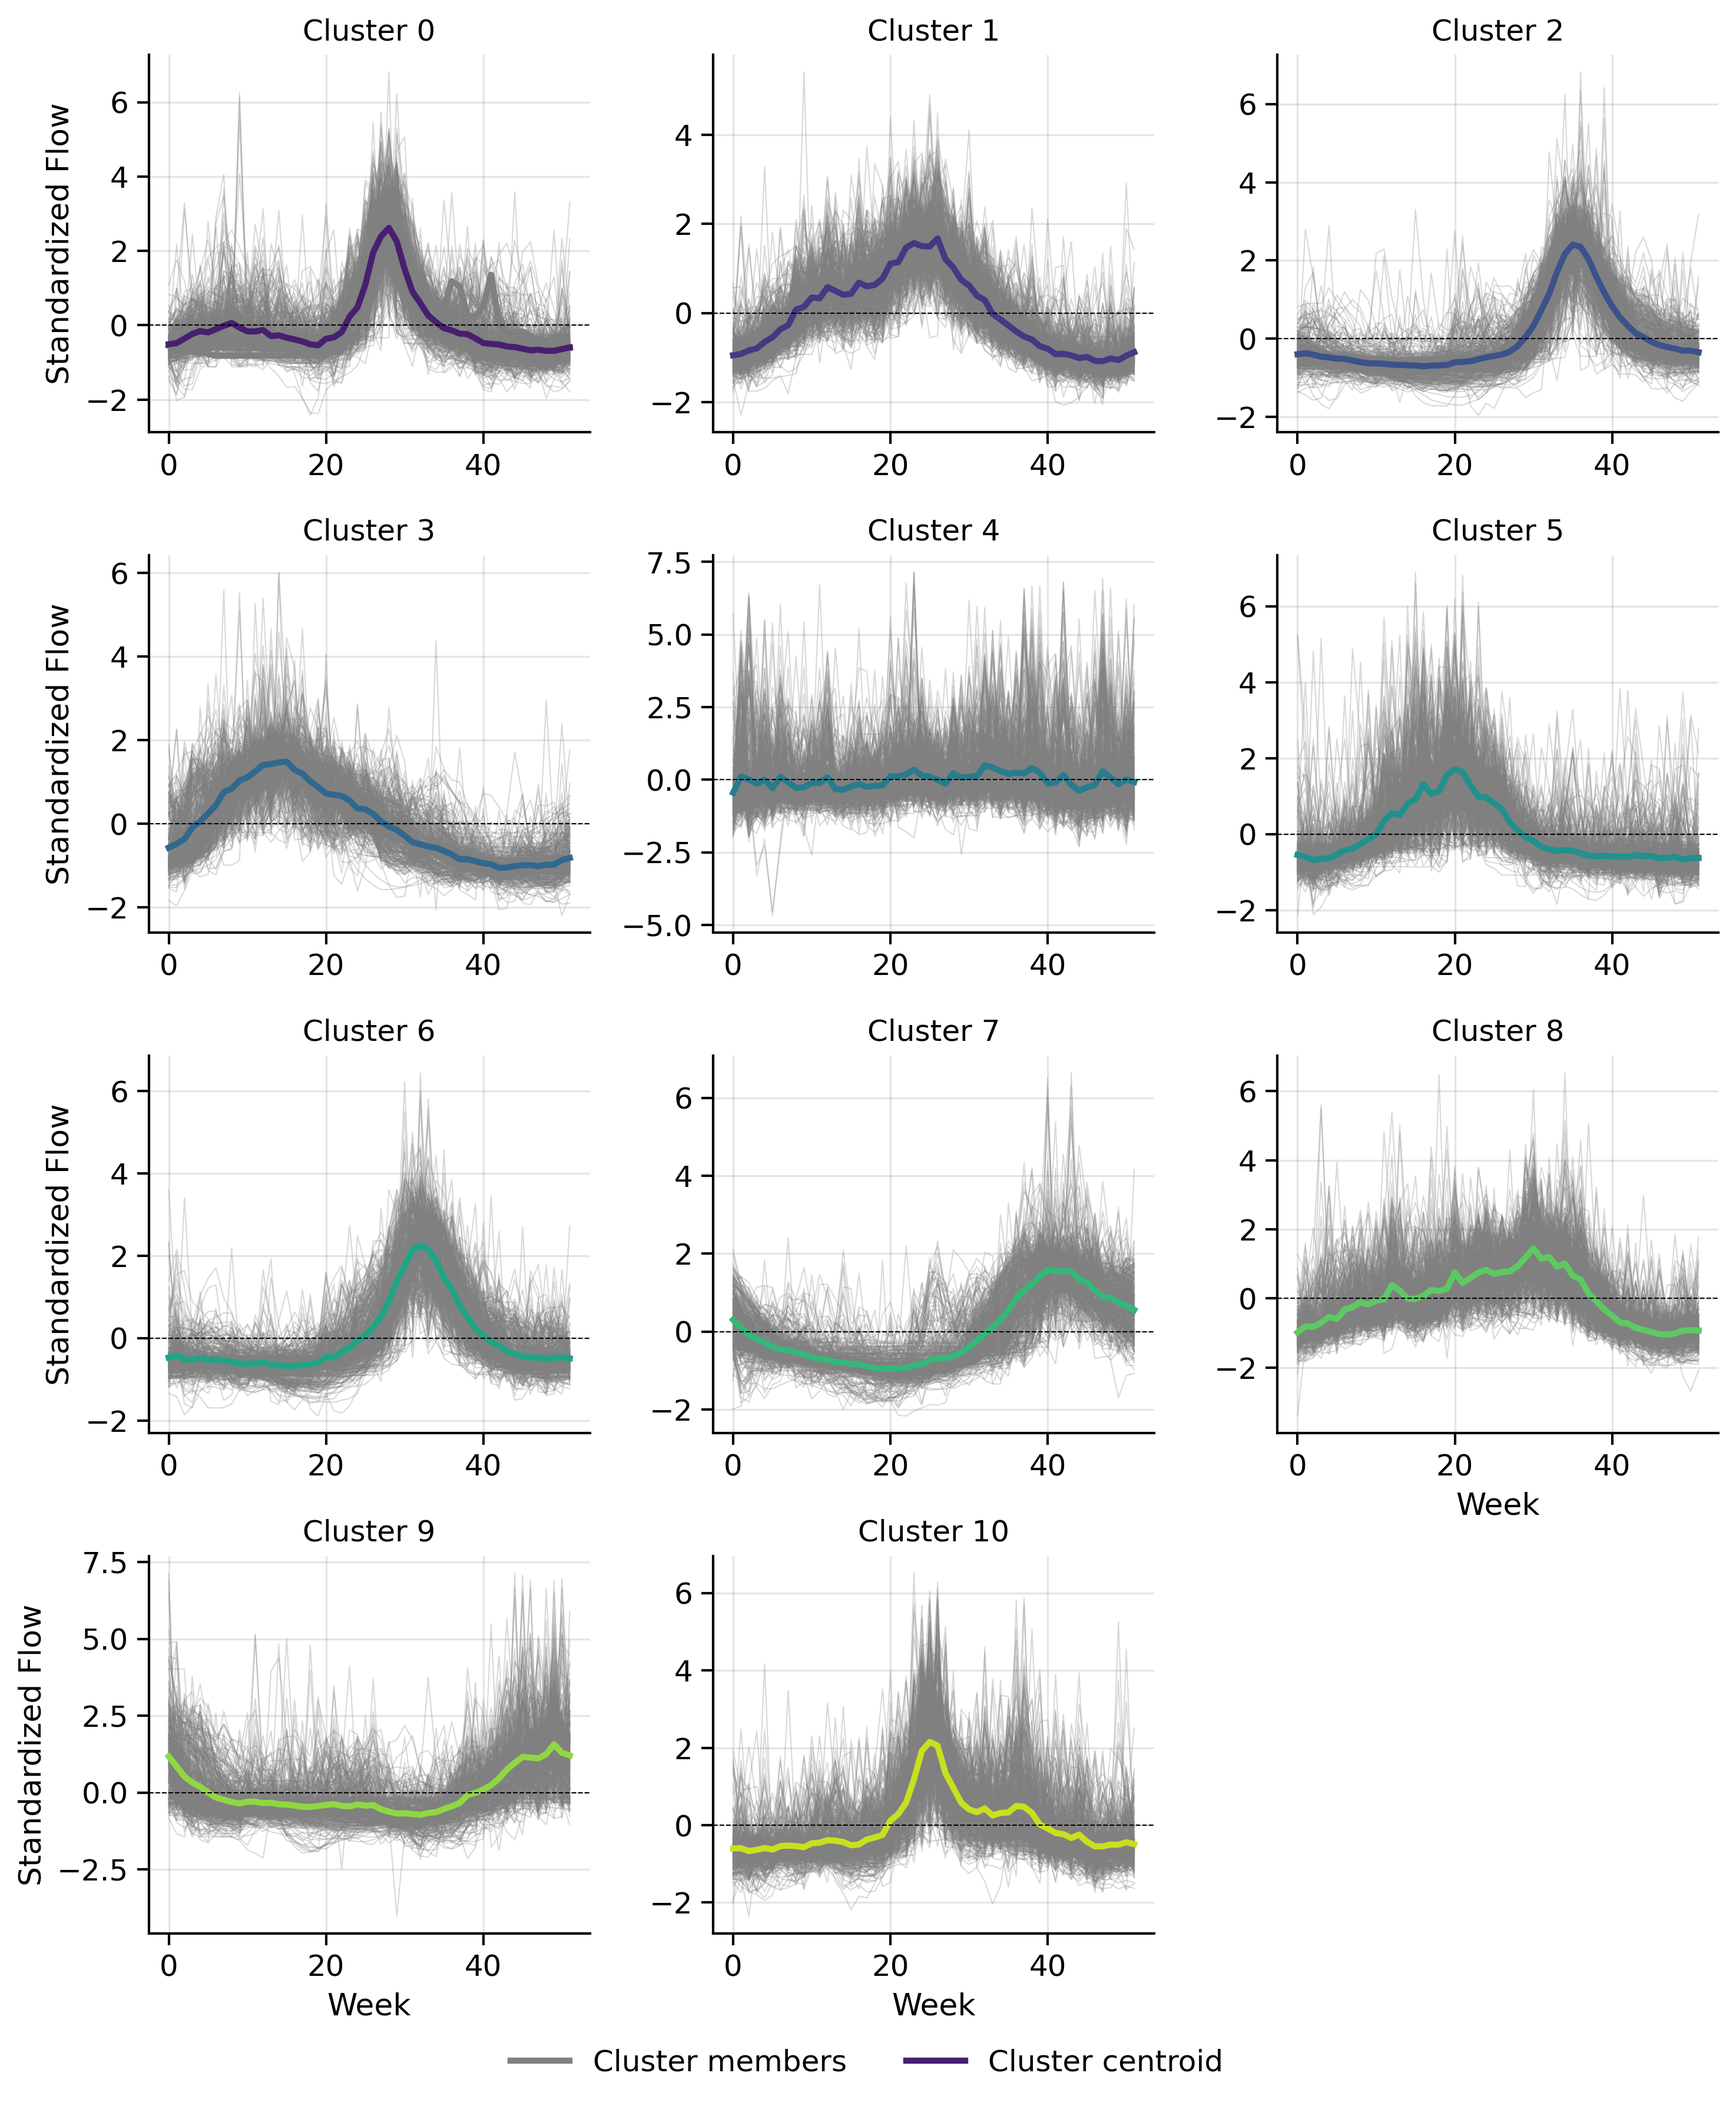
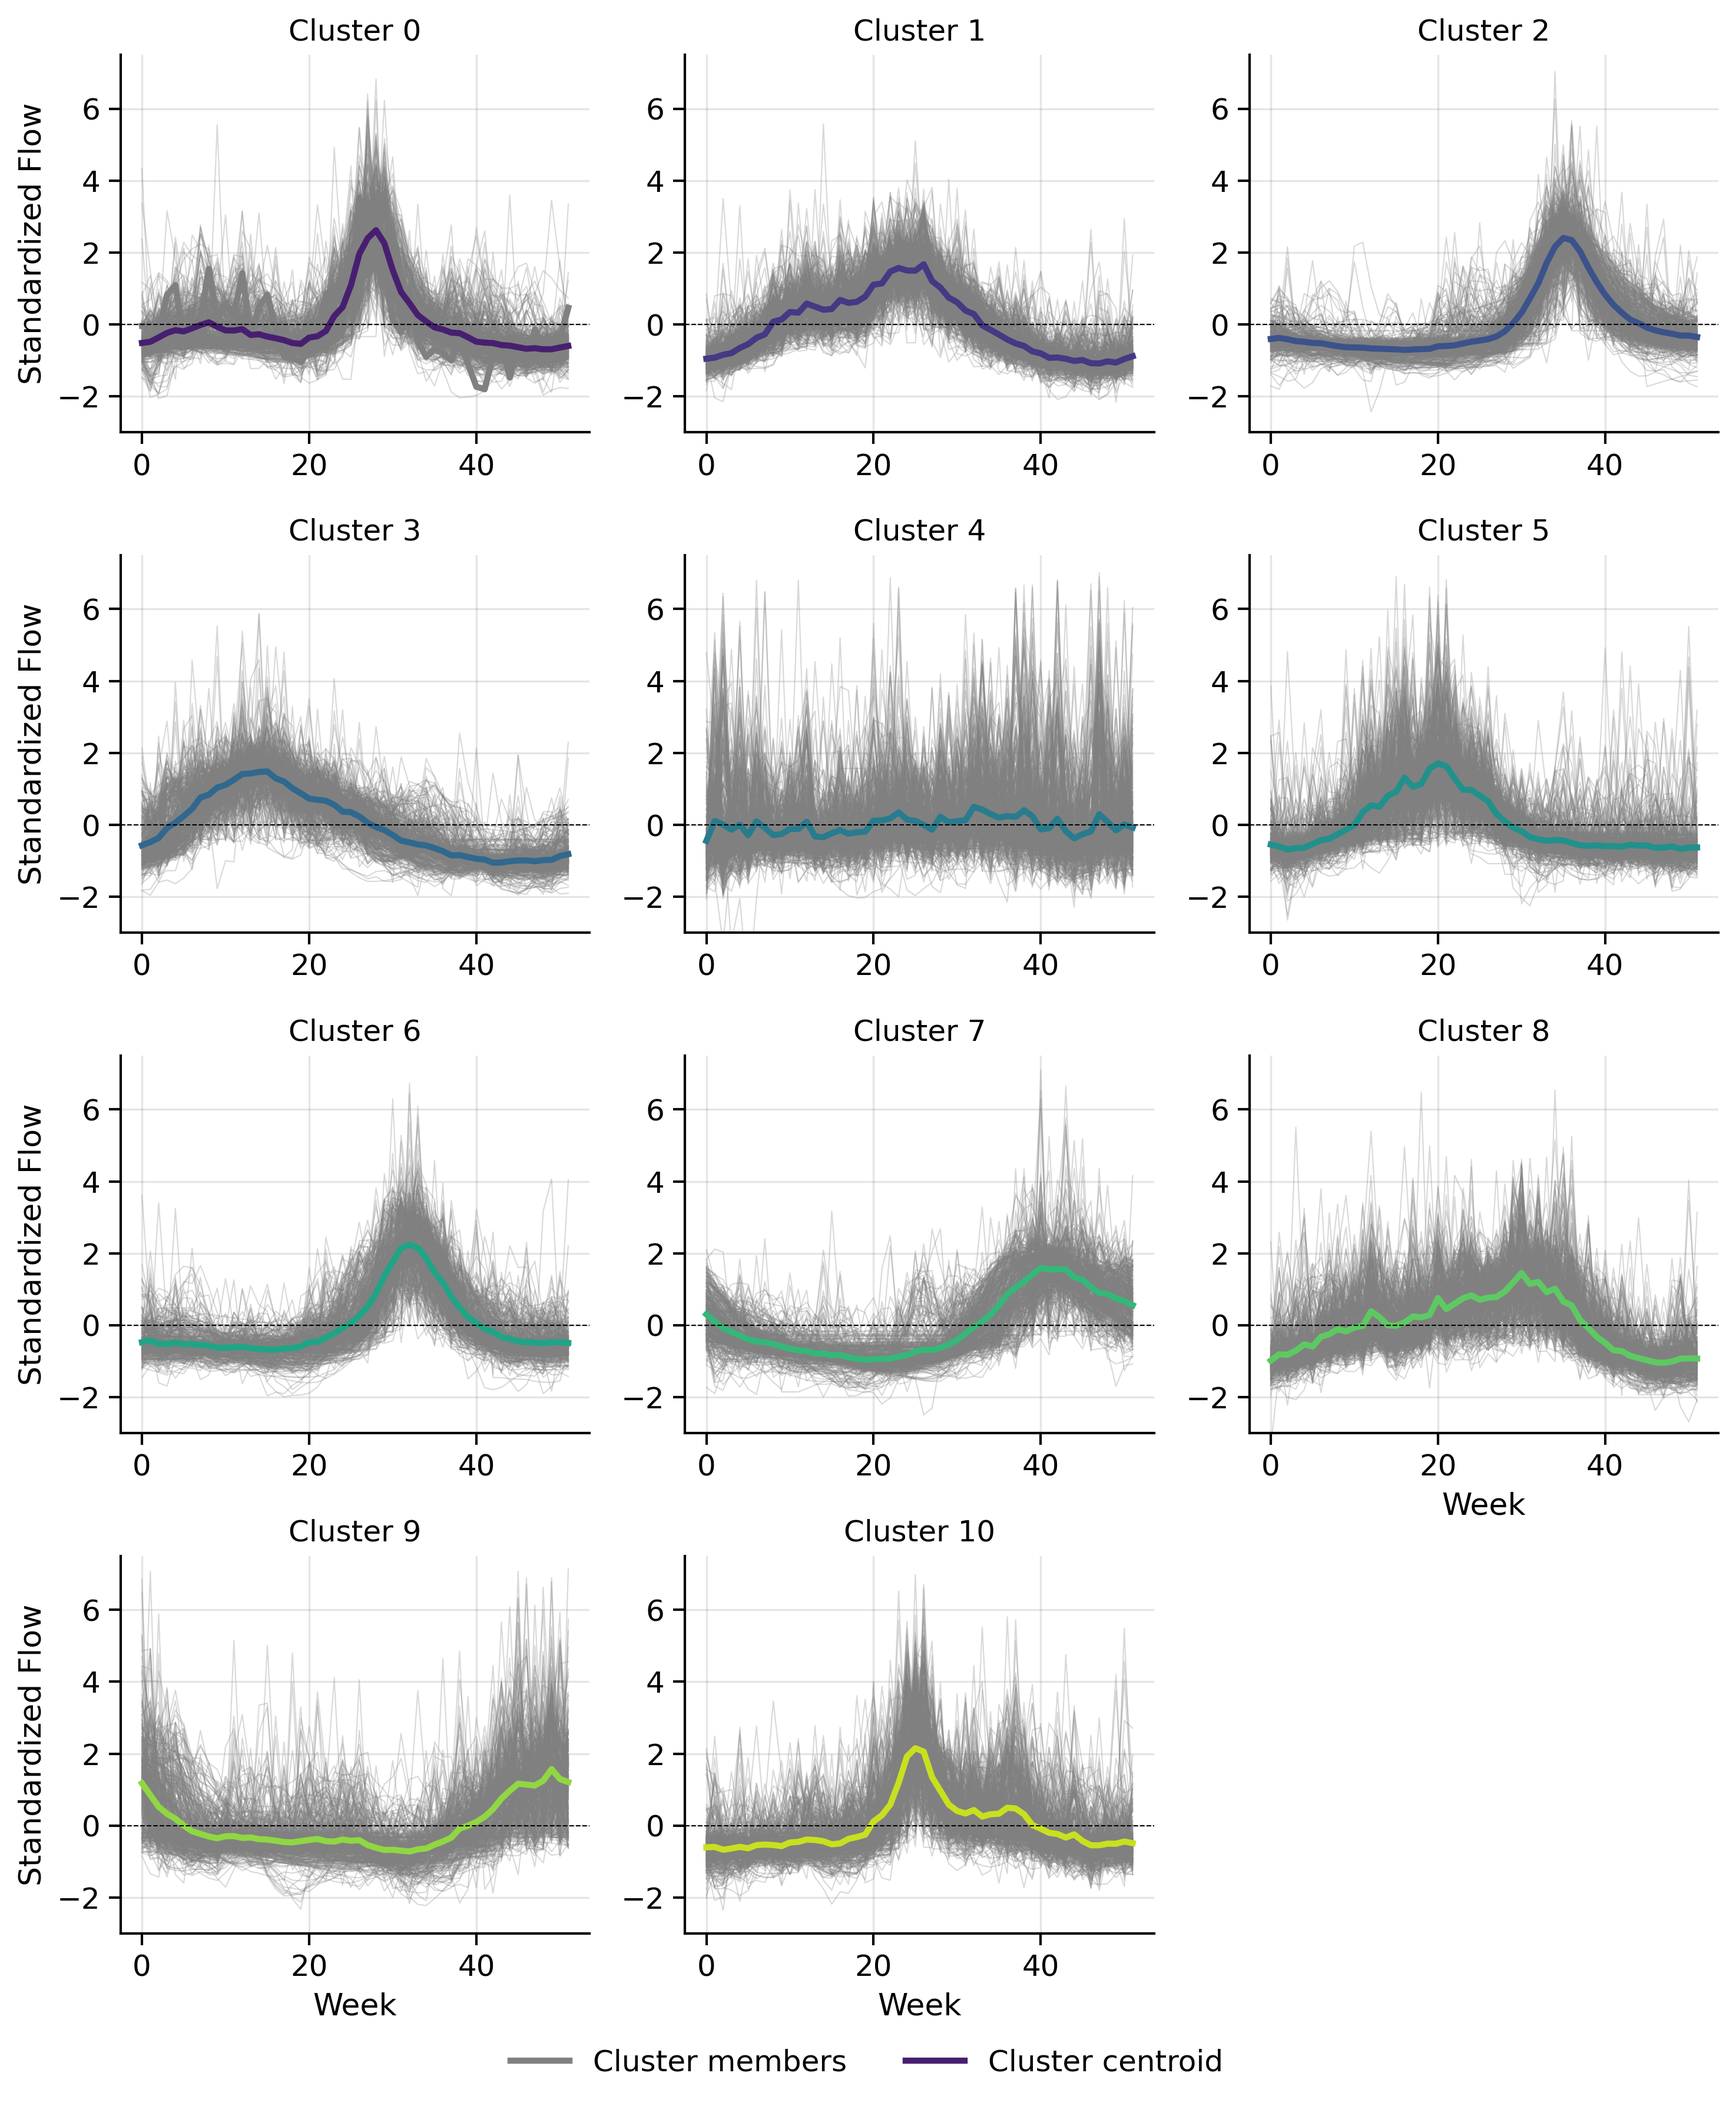
plot cluster

diff --git a/scripts/cluster_basins/plot_clusters_custom.py b/scripts/cluster_basins/plot_clusters_custom.py
@@ -78,8 +78,8 @@ class PlotConfig:
     use_tight_layout: bool = True
 
     # Plot limits
-    y_min: float | None = None
-    y_max: float | None = None
+    y_min: float | None = -3
+    y_max: float | None = 7.5
 
     # Max series to plot per cluster
     max_series_per_cluster: int = 200
